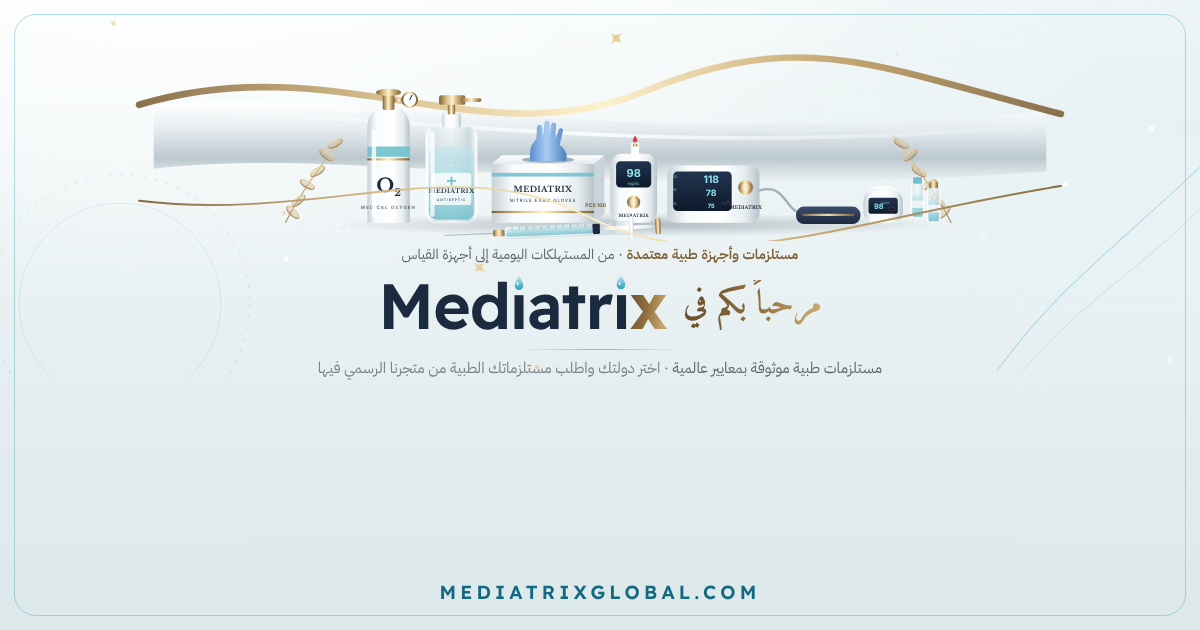
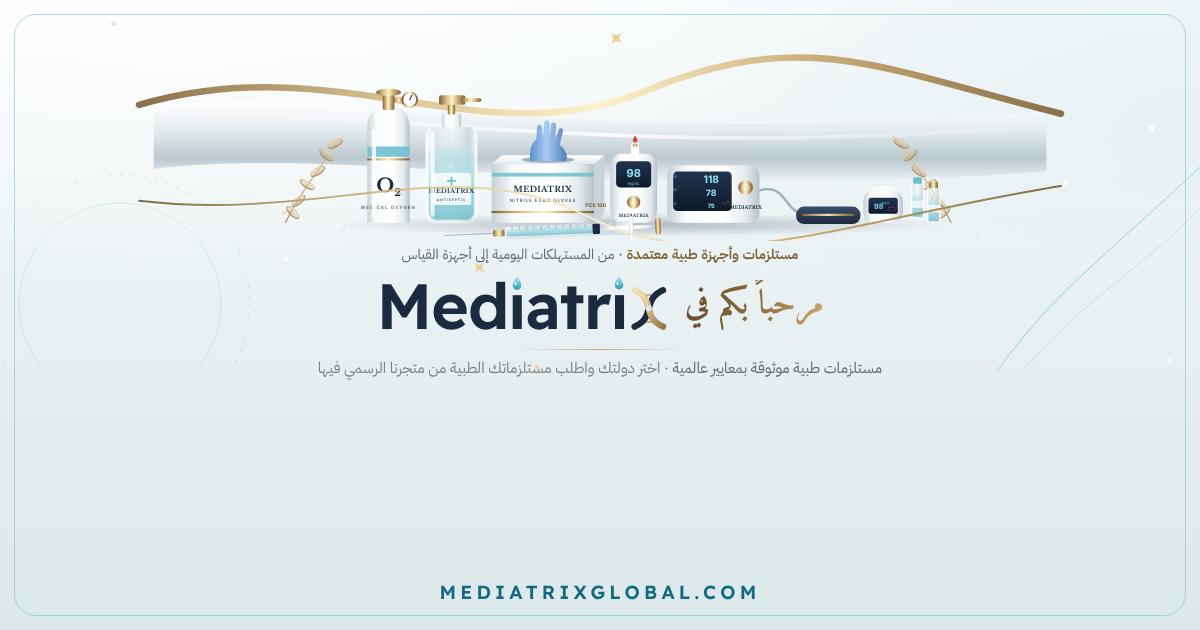
Wordmark x: animated DNA double helix (gold + navy strands, base pairs, ice core)
Claude-Session: https://claude.ai/code/session_016o9QNXHEvhKb4pAdzKRwjF

Changed region(s): [[0.3083, 0.4524, 0.6783, 0.5429]]

diff --git a/mediatrix/src/components/art/Wordmark.tsx b/mediatrix/src/components/art/Wordmark.tsx
@@ -1,4 +1,4 @@
-// "Mediatrix" wordmark — Readex Pro, deep navy; the i-dots are ice drops and the x is gold.
+// "Mediatrix" wordmark — Readex Pro, deep navy; the i-dots are ice drops and the x is a DNA double helix (gold + navy strands).
 
 function Drop({ u, delay = 0 }: { u: string; delay?: number }) {
   return (
@@ -21,6 +21,48 @@ function Drop({ u, delay = 0 }: { u: string; delay?: number }) {
   );
 }
 
+/** The "x": two DNA strands (gold + navy) that twist and cross, with base-pair rungs and an ice core. */
+function DnaX({ u }: { u: string }) {
+  const gold = ["M14 4 C 70 30, 30 70, 86 96", "M18 4 C 62 32, 38 68, 82 96", "M14 4 C 70 30, 30 70, 86 96"].join(";");
+  const navy = ["M86 4 C 30 30, 70 70, 14 96", "M82 4 C 38 32, 62 68, 18 96", "M86 4 C 30 30, 70 70, 14 96"].join(";");
+  const rungs = [
+    [16, 32, 68],
+    [30, 40, 60],
+    [70, 40, 60],
+    [84, 32, 68],
+  ];
+  return (
+    <svg viewBox="0 0 100 100" className="inline-block h-[0.64em] w-[0.62em] overflow-visible align-baseline" style={{ marginInlineStart: "0.03em" }} aria-hidden="true">
+      <defs>
+        <linearGradient id={`${u}-g`} x1="0" y1="0" x2="1" y2="1">
+          <stop offset="0" stopColor="#f1dfb3" />
+          <stop offset="0.45" stopColor="#d9bd86" />
+          <stop offset="1" stopColor="#9a7a4b" />
+        </linearGradient>
+      </defs>
+      {/* base-pair rungs (pulse like a slow twist) */}
+      <g stroke="#a8875a" strokeWidth="4" strokeLinecap="round" opacity="0.85">
+        {rungs.map(([y, x1, x2], i) => (
+          <line key={i} x1={x1} x2={x2} y1={y} y2={y}>
+            <animate attributeName="x1" values={`${x1};${x1 + 6};${x1}`} dur="3.6s" begin={`${i * 0.3}s`} repeatCount="indefinite" />
+            <animate attributeName="x2" values={`${x2};${x2 - 6};${x2}`} dur="3.6s" begin={`${i * 0.3}s`} repeatCount="indefinite" />
+          </line>
+        ))}
+      </g>
+      <path fill="none" stroke="#1c2a3f" strokeWidth="16" strokeLinecap="round">
+        <animate attributeName="d" values={navy} dur="3.6s" repeatCount="indefinite" calcMode="spline" keySplines="0.45 0 0.55 1;0.45 0 0.55 1" />
+      </path>
+      <path fill="none" stroke={`url(#${u}-g)`} strokeWidth="16" strokeLinecap="round">
+        <animate attributeName="d" values={gold} dur="3.6s" repeatCount="indefinite" calcMode="spline" keySplines="0.45 0 0.55 1;0.45 0 0.55 1" />
+      </path>
+      <path d="M22 9 C 52 26, 44 40, 47 46" fill="none" stroke="#fff6dc" strokeOpacity="0.8" strokeWidth="2.2" strokeLinecap="round" />
+      <circle cx="50" cy="50" r="6" fill="#bfe9f4" stroke="#fff" strokeWidth="2">
+        <animate attributeName="r" values="5.5;7;5.5" dur="1.8s" repeatCount="indefinite" />
+      </circle>
+    </svg>
+  );
+}
+
 export function Wordmark({ className = "", uid = "wm" }: { className?: string; uid?: string }) {
   return (
     <span className={`font-brand inline-flex items-baseline font-semibold leading-none tracking-[-0.015em] text-navy ${className}`} dir="ltr" aria-label="Mediatrix" role="img">
@@ -32,9 +74,7 @@ export function Wordmark({ className = "", uid = "wm" }: { className?: string; u
       <span className="relative" aria-hidden="true">
         ı<Drop u={`${uid}-b`} delay={1.4} />
       </span>
-      <span className="text-gold-grad !p-0" aria-hidden="true">
-        x
-      </span>
+      <DnaX u={`${uid}-x`} />
     </span>
   );
 }
